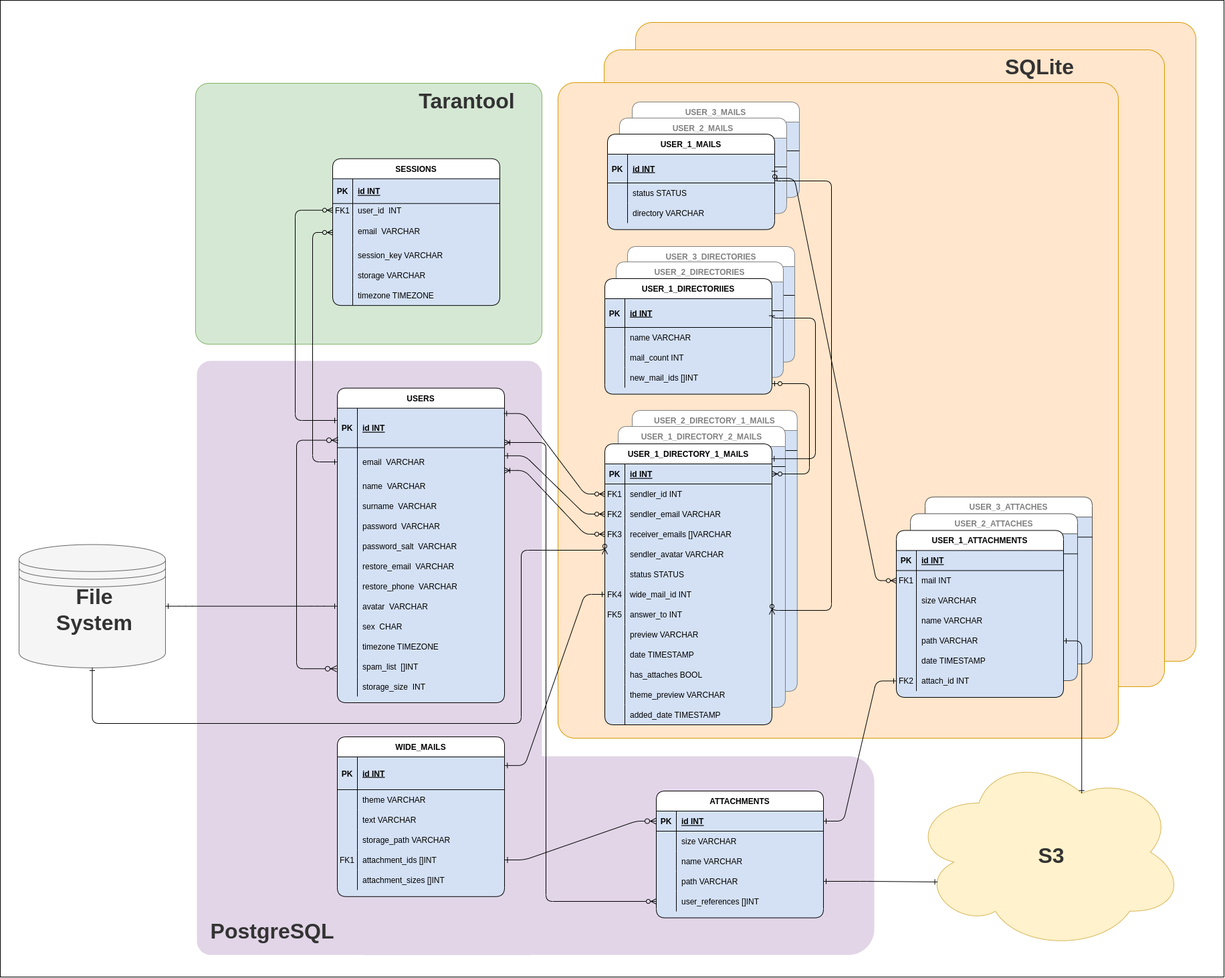
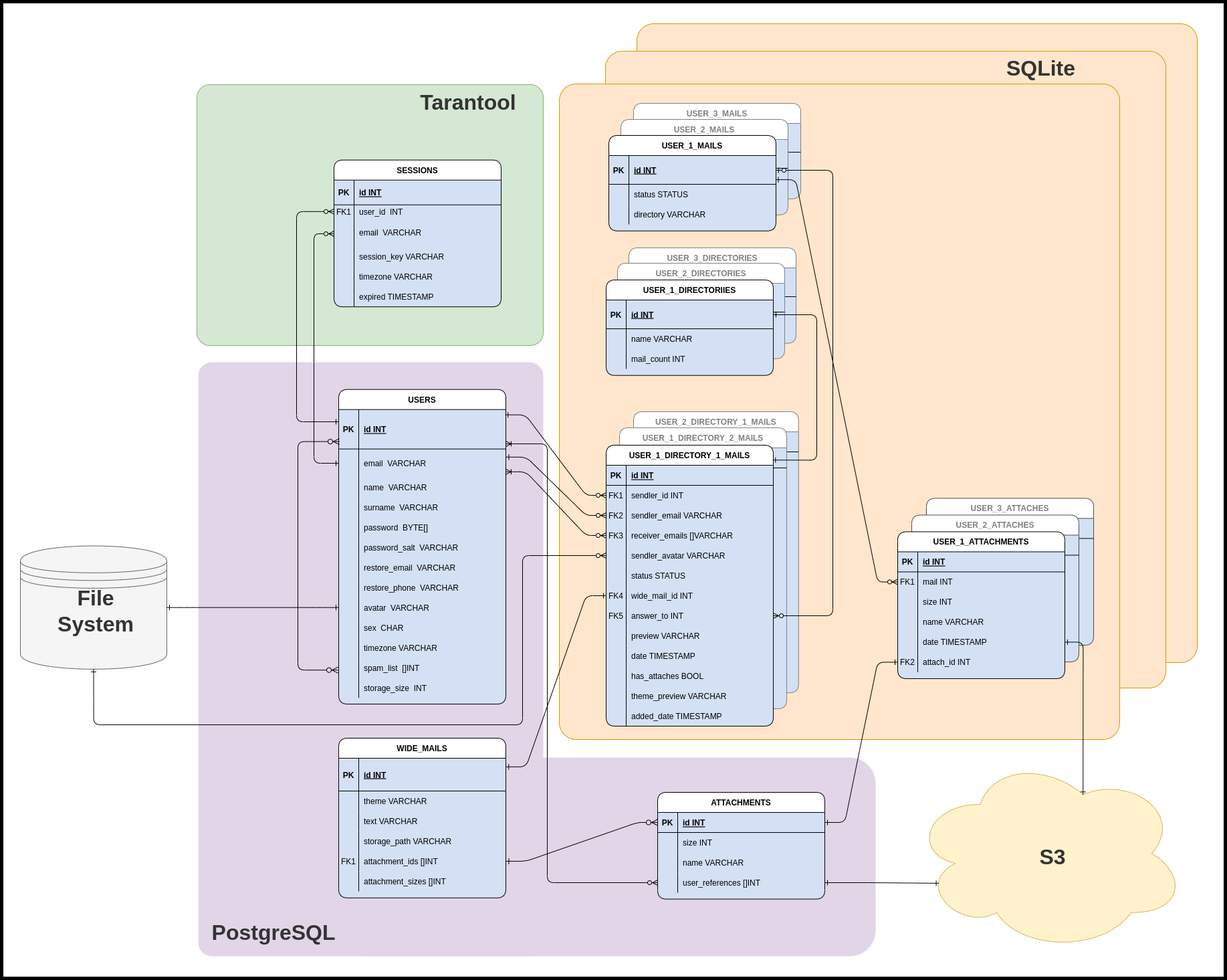
update schemes

diff --git a/README.md b/README.md
@@ -40,7 +40,7 @@
 * удаление почтового ящика
 * просмотр всех отправленных вложений (во всех письмах)
 * удаление вложения
-  
+
 #### :white_medium_small_square: Целевая аудитория
 
 * Сервис ориентирован на жителей РФ.
@@ -141,7 +141,7 @@
 #### :white_medium_small_square: Основной сетевой трафик
 
 * **RPS в разбивке по типам запросов (запросов в секунду) - для основных запросов**
-  Будем считать, что в пик нагрузки в 2 раза больше запросов, чем в среднем    
+  Будем считать, что в пик нагрузки в 2 раза больше запросов, чем в среднем
   Пусть в день у нас регистрируется 1000 аккаунтов
   `rps_avg = (кол-во действий на одного пользователя/сутки * 6 млн )/(24 * 60 * 60)`
 
@@ -227,7 +227,7 @@
 
 ## 3. <a name="логическая_схема">Логическая схема</a>
 <details>
-  <summary>:black_circle: Развернуть краткое описание таблиц</summary>  
+  <summary>:black_circle: Развернуть краткое описание таблиц</summary>
 
 - **ATTACHMENTS**
   - user_references []INT -- список айдишников, пользователей, имеющих соответствующее письмо(имеющих доступ к этому вложению). Добавлено для того, чтобы когда пользователь нажимал "скачать вложение" по ID пользователя мы проверяли, есть ли текущий пользователь в user_references, то есть может ли этот пользователь скачать это вложение
@@ -248,6 +248,10 @@
 
 ## 4.<a name="физическая_схема">Физическая схема</a>
 
+[открыть в новой вкладке](https://raw.githubusercontent.com/Natali-Skv/technopark_highload_mail/master/imgs/store.png)
+![](https://github.com/Natali-Skv/technopark_highload_mail/blob/master/imgs/store_100.png)
+
+
 |данные            |количество записей      | количество памяти        |пик ips|пик ops|
 |------------------|------------------------|--------------------------|-------|-------|
 |SESSIONS          |3 * 20 млн = 60 млн     |164 Б * 60 млн = 9,8 Гб   |7      |4 948  |
@@ -259,8 +263,8 @@
 |USER_X_* набор    |20 млн                  |2,26 Мб * 20 млн = 45,2 Tб|18 520 |17 037 |
 
 <details>
-  <summary>:black_circle: SESSIONS. Развернуть пояснение</summary>  
-  
+  <summary>:black_circle: SESSIONS. Развернуть пояснение</summary>
+
 |столбец|тип|объем|
 |-------|---|-----|
 |id|INT|4 Б|
@@ -270,15 +274,15 @@
 |timezone|VARCHAR|4 сивола (UTF-8) = 4 Б|
 |expired|DATE|4 Б|
 |**Итого**||**164 Б**|
-  
+
 * Пусть каждый пользователь залогинен на 3-х девайсах.
 * Будем очищать таблицу от протухших сессий 1 раз в день. Изначально установим
 * ips -- `rps авторизации + rps регистрации + rps на выход` из *таблицы 4*
-* ops -- `сумма rps запросов требующих проверку сессии` (все запросы из *таблицы 4*, кроме авторизации и регистрации)  
+* ops -- `сумма rps запросов требующих проверку сессии` (все запросы из *таблицы 4*, кроме авторизации и регистрации)
 </details>
 
 <details>
-  <summary>:black_circle: USERS. Развернуть пояснение</summary>  
+  <summary>:black_circle: USERS. Развернуть пояснение</summary>
 
 |столбец|тип|объем|
 |-------|---|-----|
@@ -299,10 +303,10 @@
 
 * ips -- `rps на редактирование профиля + rps на отправление письма с вложением + rps на удаление вложения` из *таблицы 4*. При запросе на отправку письма с вложением необходимо увеличить user storage_size
 * ops -- `rps авторизации + rps регистрации` из *таблицы 4*
-</details> 
+</details>
 
 <details>
-  <summary>:black_circle: WIDE_MAILS. Развернуть пояснение</summary>  
+  <summary>:black_circle: WIDE_MAILS. Развернуть пояснение</summary>
 
 |столбец|тип|объем|
 |-------|---|-----|
@@ -313,15 +317,15 @@
 |attachment_sizes|[]INT|2 * 4 Б = 8 Б|
 |**Итого**||**100 Кб**|
 
-* На каждое отправленное письмо приходится одна запись в этой таблице, независимо от количества получателей  
-* Пусть на каждого пользователя приходится ~1 250 писем (по количеству отправленных)   
+* На каждое отправленное письмо приходится одна запись в этой таблице, независимо от количества получателей
+* Пусть на каждого пользователя приходится ~1 250 писем (по количеству отправленных)
 * ips -- `rps на отправление письма` из *таблицы 4*
 * ops -- `rps на чтение письма` из *таблицы 4*
 </details>
 
 <details>
-  <summary>:black_circle: ATTACHMENTS. Развернуть пояснение</summary>  
-  
+  <summary>:black_circle: ATTACHMENTS. Развернуть пояснение</summary>
+
 |столбец|тип|объем|
 |-------|---|-----|
 |id|INT|4 Б|
@@ -330,13 +334,13 @@
 |user_references|[]INT|5 * 4 Б = 20 Б|
 |**Итого**||**48 Б**|
 
-* Размер хранилища среднего пользователя 5Гб, то есть `5 Гб/10 Мб = 500 вложений`   
+* Размер хранилища среднего пользователя 5Гб, то есть `5 Гб/10 Мб = 500 вложений`
 * ips -- `rps на отправление письма с вложением + rps на удаление вложения = 278*40% + 7 = 114` из *таблицы 4*
 * ops -- `rps на скачивание вложения = 417` из *таблицы 4*
 </details>
 
 <details>
-  <summary>:black_circle: Файлы вложений. Развернуть пояснение</summary>  
+  <summary>:black_circle: Файлы вложений. Развернуть пояснение</summary>
 
 - Размер хранилища среднего пользователя 5Гб, то есть `5 Гб/10 Мб = 500 вложений`
 - ips -- `rps на отправление письма с вложением + rps на удаление вложения = 278*40% + 7 = 114` из *таблицы 4*
@@ -345,40 +349,40 @@
 </details>
 
 <details>
-  <summary>:black_circle: Файлы аватарок. Развернуть пояснение</summary>  
-  
+  <summary>:black_circle: Файлы аватарок. Развернуть пояснение</summary>
+
 * ips -- `rps на регистрацию + rps на редактирование профиля`
 * ops -- `(rps на загрузку главной страницы + rps на входящие + rps на исходящие + rps на просмотр спама + rps на просмотр корзины)*30*50%`. 30 -- количество писем на странице. Пусть 50% аватарок берется из кеша.
 </details>
 
 <details>
-  <summary>:black_circle: USER_X_* набор таблиц. Развернуть пояснение</summary>  
-USER_X_* набор таблиц -- USER_X_MAILS, USER_X_DIRECTORIES, USER_X_DIRECTORY_X_MAILS, USER_X_ATTACHES.   
+  <summary>:black_circle: USER_X_* набор таблиц. Развернуть пояснение</summary>
+USER_X_* набор таблиц -- USER_X_MAILS, USER_X_DIRECTORIES, USER_X_DIRECTORY_X_MAILS, USER_X_ATTACHES.
   Это персональный набор таблиц для каждого пользователя.
-       
+
   <details>
-  <summary>:black_medium_small_square: USER_X_MAILS. Развернуть пояснение</summary>  
-    
+  <summary>:black_medium_small_square: USER_X_MAILS. Развернуть пояснение</summary>
+
 |столбец|тип|объем|
 |-------|---|-----|
 |id|INT|4 Б|
 |status|STATUS|4 Б|
 |directory|VARCHAR|20 символов UTF-8 = 20 Б|
 |**Итого**||**28 Б**|
-  
-  * В этой таблице хранится информация об всех полученных и отправленных письмах данного пользователя. 
+
+  * В этой таблице хранится информация об всех полученных и отправленных письмах данного пользователя.
   * Пусть у пользователя 7500 писем
   * В эту таблицу мы ходим при запросе на конкретное письмо, которое содержит *answer_to*. Пусть 20% писем пользователей содержат answer_to
   * ipd -- `rpd на отправку письма`
   * opd -- `rpd на прочтение письма * 20%` *из таблицы 4*
-  
+
 |таблица          |количество записей      | объем таблицы        | input/day| output/day|
 |-----------------|------------------------|----------------------|-------|-------|
 |USER_X_MAILS     | 7500                   |7500 * 28 Б = 0,21 Мб |2 |4|
 </details>
 
   <details>
-  <summary>:black_medium_small_square: USER_X_DIRECTORIES. Развернуть пояснение</summary>  
+  <summary>:black_medium_small_square: USER_X_DIRECTORIES. Развернуть пояснение</summary>
 
 |столбец|тип|объем|
 |-------|---|-----|
@@ -386,19 +390,19 @@ USER_X_* набор таблиц -- USER_X_MAILS, USER_X_DIRECTORIES, USER_X_DIR
 |name|VARCHAR|20 символов UTF-8 = 20 Б|
 |mail_count|INT|4 Б|
 |**Итого**||**28 Б**|
-   
+
   * у пользователя 4 директории (входящие, исходящие,спам,корзина)
   * ipd -- 0, запись в эту таблицу происходит 1 раз, при регистрации пользователя
   * opd -- `rpd на загрузку главной страницы + rpd на входящие + rpd на исходящие + rpd на просмотр спама + rpd на просмотр корзины` *из таблицы 4*
-  
+
 |таблица           |количество записей      | объем таблицы         | input/day| output/day|
 |------------------|------------------------|-----------------------|-------|-------|
 |USER_X_DIRECTORIES| 4                      |4 * 28 Б = 112 Б |0 |8|
 </details>
- 
+
   <details>
-  <summary>:black_medium_small_square: USER_X_DIRECTORY_X_MAILS. Развернуть пояснение</summary>   
-  
+  <summary>:black_medium_small_square: USER_X_DIRECTORY_X_MAILS. Развернуть пояснение</summary>
+
 |столбец|тип|объем|
 |-------|---|-----|
 |id|INT|4 Б|
@@ -409,22 +413,22 @@ USER_X_* набор таблиц -- USER_X_MAILS, USER_X_DIRECTORIES, USER_X_DIR
 |answer_to|INT|4 Б|
 |theme_preview|VARCHAR|35 символов UTF-8 = 70 Б|
 |preview|VARCHAR|35 символов UTF-8 = 70 Б|
-|date|TIMESTAMP|4 Б|  
+|date|TIMESTAMP|4 Б|
 |has_attaches|BOOL|1 Б|
 |**Итого**||**265 Б**|
-     
+
   * у пользователя 4 директории (входящие, исходящие,спам,корзина), то есть 4 таблицы USER_X_DIRECTORY_X_MAILS
   * Пусть в день пользователь получает 22 письма.
   * ipd -- `rpd на отправку письма + rpd на получение письма + rpd на чтение письма + rpd на удаление письма`
   * opd -- `rpd на загрузку главной страницы + rpd на входящие + rpd на исходящие + rpd на просмотр спама + rpd на просмотр корзины + rpd на чтение письма + rpd на удаление письма` *из таблицы 4*
-  
+
 |набор таблиц            |количество записей      | суммарный объем таблиц         | input/day| output/day|
 |------------------------|------------------------|--------------------------------|-------|-------|
 |USER_X_DIRECTORY_X_MAILS| 7500                   |7500 * 265 Б = 2 Мб |47 |31|
 </details>
 
    <details>
-  <summary>:black_medium_small_square: USER_X_ATTACHMENTS. Развернуть пояснение</summary>   
+  <summary>:black_medium_small_square: USER_X_ATTACHMENTS. Развернуть пояснение</summary>
 
 |столбец|тип|объем|
 |-------|---|-----|
@@ -432,38 +436,30 @@ USER_X_* набор таблиц -- USER_X_MAILS, USER_X_DIRECTORIES, USER_X_DIR
 |mail_id|INT|4 Б|
 |size|INT|4 Б|
 |name|VARCHAR|20 символов UTF-8 = 20 Б|
-|date|TIMESTAMP|4 Б|  
+|date|TIMESTAMP|4 Б|
 |attach_id|INT|4 Б|
 |**Итого**||**40 Б**|
 
-* Размер хранилища среднего пользователя 5Гб, то есть `5 Гб/10 Мб = 500 вложений`   
+* Размер хранилища среднего пользователя 5Гб, то есть `5 Гб/10 Мб = 500 вложений`
 * ipd -- `rpd на отправление письма с вложением + rpd на удаление вложения` из *таблицы 4*
 * opd -- `rpd на скачивание вложения` из *таблицы 4*
-  
+
 |таблица            |количество записей  | объем таблицы       | input/day| output/day|
 |-------------------|--------------------|---------------------|-------|-------|
 |USER_X_ATTACHMENTS | 500                |500 * 40 Б = 0,02 Мб | 1 | 3 |
 </details>
- 
-  
-### размер sqlite-файла на одного пользователя 
+
+
+### размер sqlite-файла на одного пользователя
 |таблицы          | количество памяти |input/day|output/day|
 |-----------------|-------------------|---------|----------|
 |USER_X_*         | 2,26 Мб           | 50      | 46       |
 
-</details>  
+</details>
 
 
-
-  
-
-  | Данные   |Технология| Мотивация | Решающие свойства |
-  |----------|--------------|--------|----------|
-  | SESSIONS |**Tarantool**| Очень нагруженная таблица, в нее мы будем ходить почти на каждый запрос пользователя, чтобы проверить ключ сессии. Необходим быстрый доступ без возможности потери данных |хранение данных в RAM, cогласованность и сохранность данных в случае сбоя [[6]](#источник_6);|
-  | USERS, ATTACHES, WIDE_MAILS | **PostgreSQL** |Данные хорошо ложатся на реляционную модель; нет full-scan запросов, только по id | реляционная модель; популярная технология; высокая поддержка; cогласованность и сохранность данных в случае сбоя;|
-  | USER_X_MAILS, USER_X_DIRECTORIES, USER_X_DIRECTORY_X_MAILS, USER_X_ATTACHES | отдельная **SQLite** для каждого набора таблиц конкретного пользователя | Данные хорошо ложатся на реляционную модель; нужна возможность хранить отдельную БД для каждого пользователя, чтобы избежать крайне тяжелые full-scan запросы|реляционная модель; встраиваемая БД; популярная технология; высокая поддержка; cогласованность и сохранность данных в случае сбоя;|
-  | Вложения | **S3** |очень большой объем данных; возможность сэкономить на покупке собственных серверов; возможность сэкономить засчет гибкой тарификации(cold data); |популярная технология; высокая поддержка; надежность, доступность;|
-  | Аватарки пользователей | **FS** |небольшой объем данных, очень большое количество запросов на получение, крайне редкие запросы на обновление |популярная технология; высокая поддержка; надежность, доступность;|
+[открыть в новой вкладке](https://raw.githubusercontent.com/Natali-Skv/technopark_highload_mail/master/imgs/data.png)
+![](https://github.com/Natali-Skv/technopark_highload_mail/blob/master/imgs/data.png)
 
   ### Индексы
   |ТАБЛИЦА: поле | Мотивация  |
@@ -480,9 +476,6 @@ USER_X_* набор таблиц -- USER_X_MAILS, USER_X_DIRECTORIES, USER_X_DIR
   |USER_X_ATTACHMENTS:id|необходимо быстро получать вложение по id (запрос на удаление вложения отправителем)|
   |USER_X_ATTACHMENTS:size|необходимо быстро сортировать вложения по размеру(запрос на список вложений пользователя)|
 
-[открыть в новой вкладке](https://raw.githubusercontent.com/Natali-Skv/technopark_highload_mail/master/imgs/store.png)
-![](https://github.com/Natali-Skv/technopark_highload_mail/blob/master/imgs/store_100.png)
-
 ### Шардинг
 **Tarantool**:
 В нашем случае на Tarantool основная нагрузка -- SELECT-запросы. Обновление данных происходит только при запросе на выход из аккауна, выход со всех устройств, вход. Максимальное RPS ~ 5 000.
@@ -497,10 +490,10 @@ USER_X_* набор таблиц -- USER_X_MAILS, USER_X_DIRECTORIES, USER_X_DIR
 Если конкретный шард становится перегруженным, можно просто перенести файлы SQLite части диапозона пользователей на другой шард.
 
 **PostgreSQL**:
-В таблицы, расположенные в PostgreSQL, не будет full-scan запросов, что упрощает шардинг.   
-В выбранной схеме данных, все данные можно разделить на шарды по диапозонам user_id.    
-Записи в WIDE_MAILS будут принадлежать конкретному шарду, если id отправителя этого письма принадлежит диапозону user_id данного шарда.   
-Записи в ATTACHMENTS будут принадлежать конкретному шарду, если id отправителя соответствующего письма принадлежит диапозону user_id данного шарда.    
+В таблицы, расположенные в PostgreSQL, не будет full-scan запросов, что упрощает шардинг.
+В выбранной схеме данных, все данные можно разделить на шарды по диапозонам user_id.
+Записи в WIDE_MAILS будут принадлежать конкретному шарду, если id отправителя этого письма принадлежит диапозону user_id данного шарда.
+Записи в ATTACHMENTS будут принадлежать конкретному шарду, если id отправителя соответствующего письма принадлежит диапозону user_id данного шарда.
 При шардинге следует учесть вероятные проблемы с балансировкой нагрузки между шардами. Для этого на одном сервере создается сразу несколько шардов (например 100). Тогда если сервер начинает переполняться, половину шардов можно перенести на другой сервер.
 
 ## 5. <a name="технологии">Технологии</a>
@@ -513,6 +506,9 @@ USER_X_* набор таблиц -- USER_X_MAILS, USER_X_DIRECTORIES, USER_X_DIR
 
 ## 6. <a name="схема_проекта">Схема проекта</a>
 
+[открыть в новой вкладке](https://raw.githubusercontent.com/Natali-Skv/technopark_highload_mail/master/imgs/project_sceme.png)
+![](https://github.com/Natali-Skv/technopark_highload_mail/blob/master/imgs/project_sceme_100.png)
+
 
 ## 7. <a name="список_серверов">Список серверов</a>
 
@@ -523,44 +519,44 @@ USER_X_* набор таблиц -- USER_X_MAILS, USER_X_DIRECTORIES, USER_X_DIR
 
 
  <details>
-  <summary>:black_medium_small_square: Base backend. Развернуть пояснение</summary>   
-  
-**обрабатывает запросы:**  
+  <summary>:black_medium_small_square: Base backend. Развернуть пояснение</summary>
+
+**обрабатывает запросы:**
 - регистрация
 - авторизация
 - редактирование личного профиля
-- просмотр списка писем 
+- просмотр списка писем
 - чтение письма
-- удаление письма  
-  
-**суммарное rps:** 4 330   
-**суммарный трафик:** `3,7 Гбит/с`    
-  
- </details>
- 
- <details>
-  <summary>:black_medium_small_square: Attachments backend. Развернуть пояснение</summary>   
-  
-**обрабатывает запросы:**  
-- скачивание вложения
-- удаление вложения
-  
-**суммарное rps:** 424  
-**суммарный трафик:** `10 Мб*417 rps = 33 Гбит/с`  
-  
- </details>
- 
- 
-<details>
-<summary>:black_medium_small_square: Send mail backend. Развернуть пояснение</summary>   
-  
-**обрабатывает запросы:**  
-- скачивание вложения
-- удаление вложения
-  
-**суммарное rps:**   
+- удаление письма
 
-  
+**суммарное rps:** 4 330
+**суммарный трафик:** `3,7 Гбит/с`
+
+ </details>
+
+ <details>
+  <summary>:black_medium_small_square: Attachments backend. Развернуть пояснение</summary>
+
+**обрабатывает запросы:**
+- скачивание вложения
+- удаление вложения
+
+**суммарное rps:** 424
+**суммарный трафик:** `10 Мб*417 rps = 33 Гбит/с`
+
+ </details>
+
+
+<details>
+<summary>:black_medium_small_square: Send mail backend. Развернуть пояснение</summary>
+
+**обрабатывает запросы:**
+- скачивание вложения
+- удаление вложения
+
+**суммарное rps:**
+
+
 </details>
 
 Таблица с конфигурациями, количеством серверов и сервисами расположенными на них. В случае использования kubernetes или
